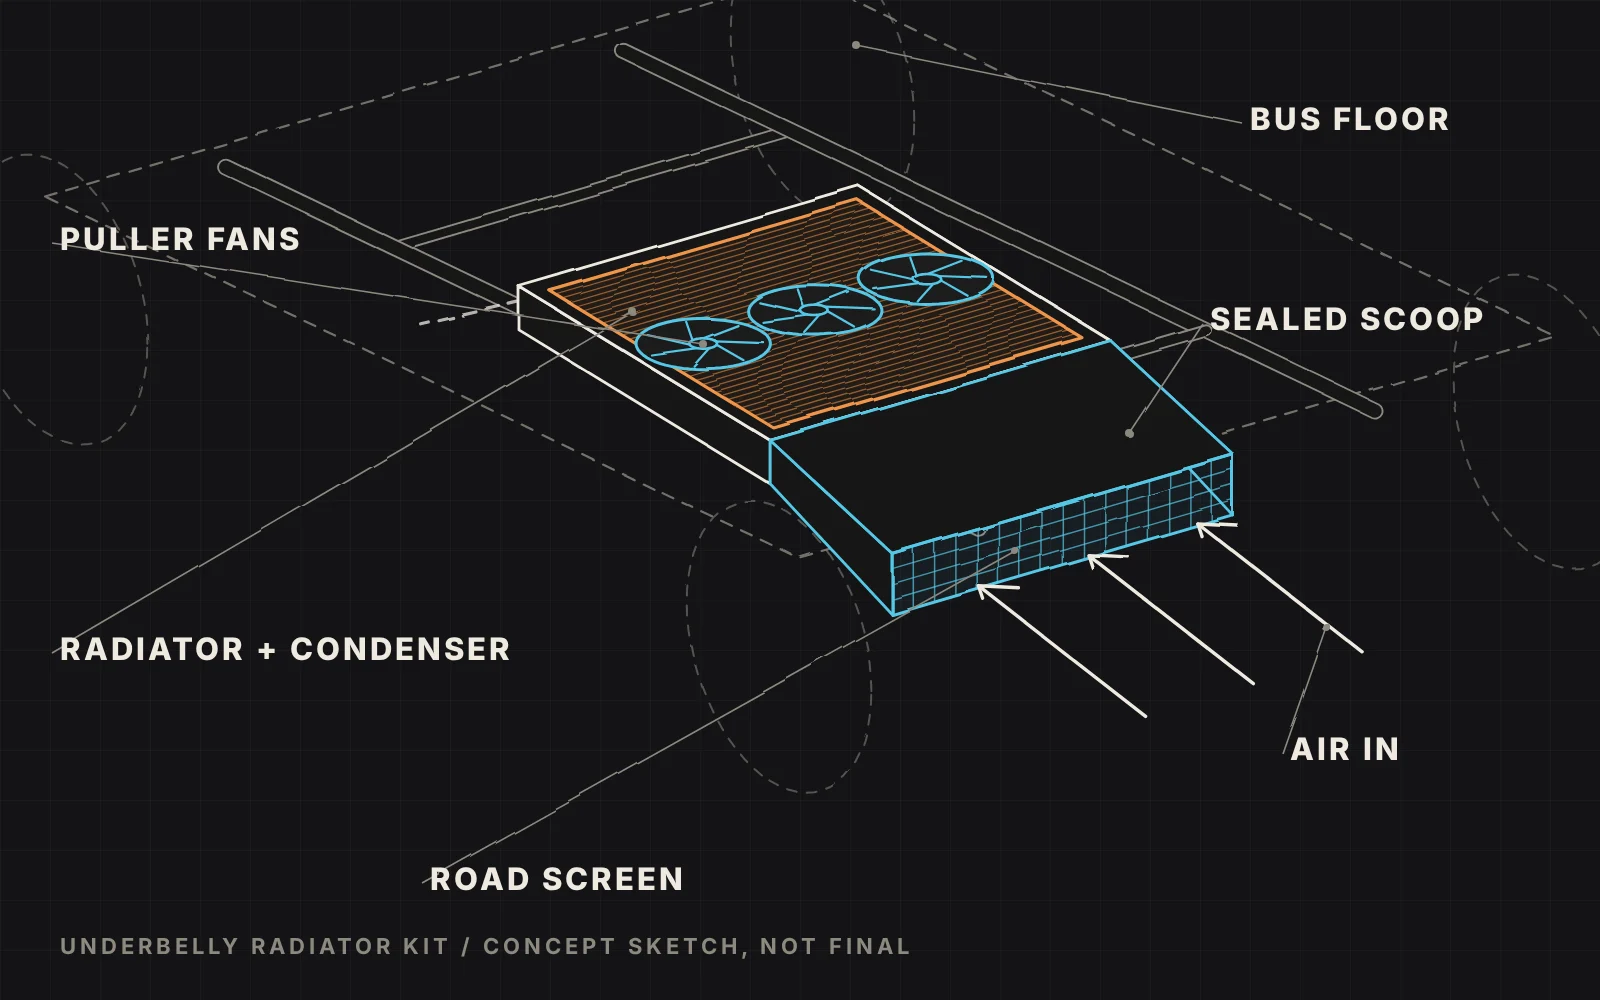
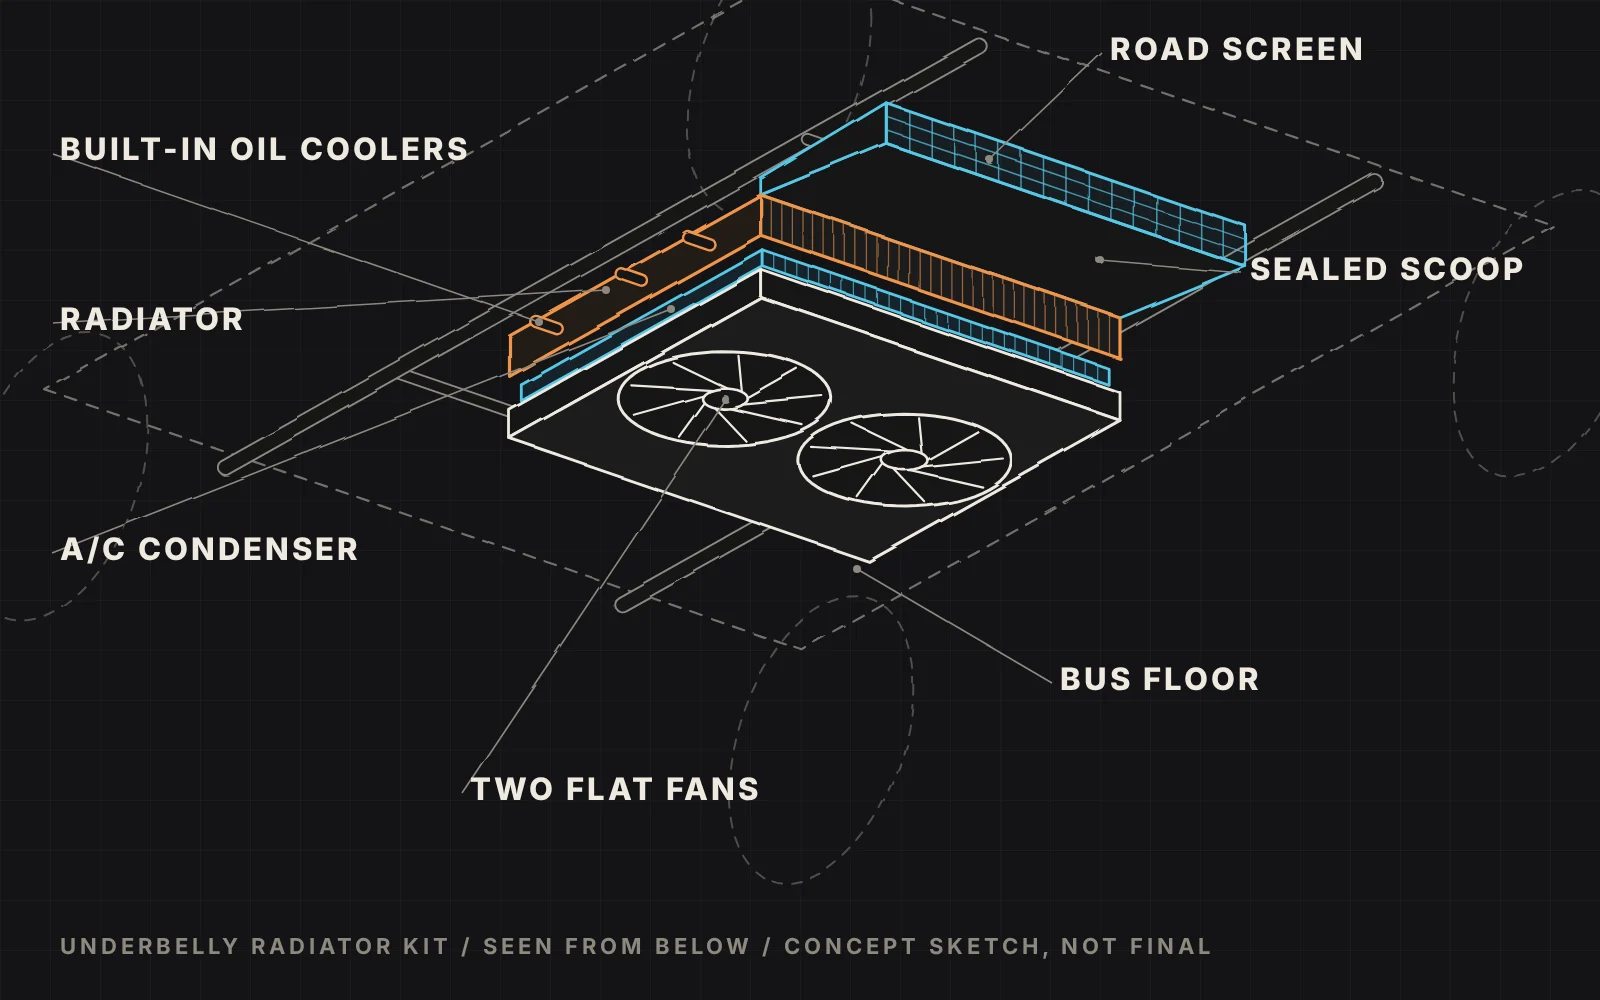
Underbelly kit: stacked radiator and condenser, two flat fans on the bottom

diff --git a/index.html b/index.html
@@ -207,13 +207,14 @@ footer .ig{color:var(--cyan);font-weight:800;text-decoration:none;letter-spacing
     </div>
     <div class="kits">
       <article class="kit rise">
-        <img class="kimg" src="img/kit-underbelly.webp" alt="Concept sketch of the underbelly radiator kit: a sealed scoop with a road screen feeding a radiator and condenser laid under the floor, with three puller fans" loading="lazy">
+        <img class="kimg" src="img/kit-underbelly.webp" alt="Concept sketch of the underbelly radiator kit: seen from below, a radiator with built-in oil coolers, an A/C condenser stacked under it and two flat fans on the bottom, with a sealed scoop and road screen" loading="lazy">
         <span class="kicker">Cooling</span>
         <h3 class="d">Underbelly radiator kit</h3>
         <p>Cooling for a real water-cooled engine, tucked under the bus.</p>
         <ul>
-          <li>Full-size radiator and A/C condenser, laid under the floor</li>
-          <li>Sealed scoop, puller fans and a road screen</li>
+          <li>Full-size radiator with the A/C condenser stacked under it</li>
+          <li>Built-in transmission and engine oil coolers</li>
+          <li>Two low-profile fans on the bottom, sealed scoop and a road screen</li>
         </ul>
       </article>
       <article class="kit rise">
